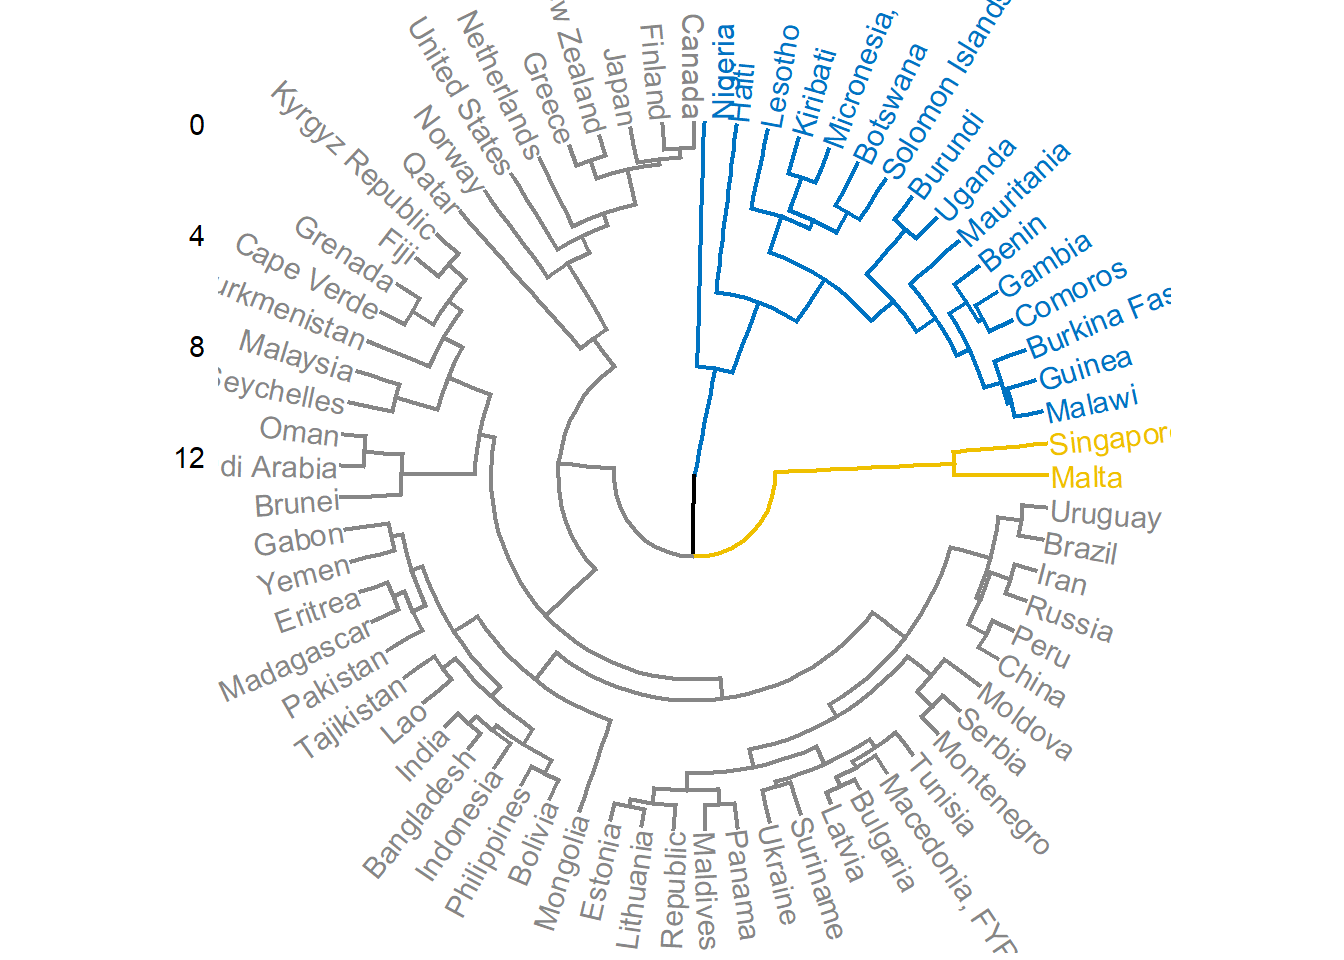
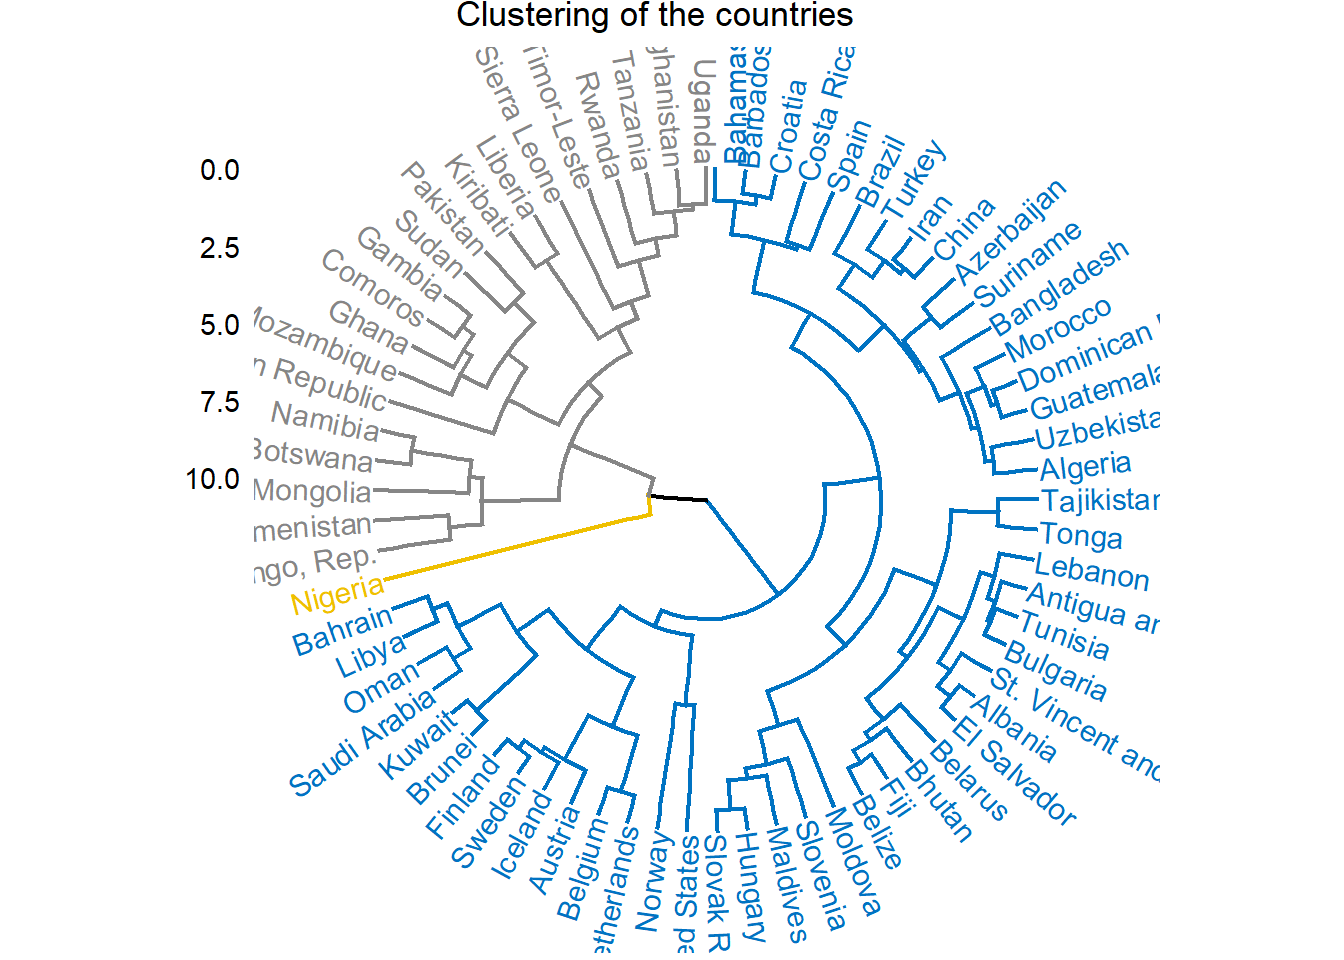
aa

diff --git a/index.html b/index.html
@@ -9,6 +9,7 @@
 <meta http-equiv="X-UA-Compatible" content="IE=EDGE" />
 
 
+<meta name="author" content="Kevin Luna Obando" />
 
 
 <title>PEC 2 - Visualización de datos</title>
@@ -264,6 +265,7 @@ $(document).ready(function () {
 
 
 <h1 class="title toc-ignore">PEC 2 - Visualización de datos</h1>
+<h4 class="author">Kevin Luna Obando</h4>
 
 </div>
 
@@ -272,7 +274,7 @@ $(document).ready(function () {
 usando técnicas diferentes, en nuestro han sido: dot-density-map,
 cicular-dendrogram y UpSet (intersecting sets).</p>
 <div id="dot-density-map" class="section level1">
-<h1>Dot density map</h1>
+<h1><strong>Dot density map</strong></h1>
 <p>Los mapas de densidad de puntos son una forma simple de mostrar las
 diferencias de densidad en las distribuciones geográficas en un
 territorio. Este tipo de visualizacion fue y es muy popular, debido a
@@ -282,33 +284,39 @@ uno-a-uno-dot-density-map o uno-a-muchos-dot-density-maps. Un factor
 crítico de este tipo de visualización es que han de ser dibujados en un
 mapa que preserve el tamaño de las área, sino se puede llegar a
 distorsionar la densidad percibida de los puntos.</p>
-<p>Las ventajas de usar este tipo de visualización son: - se puede
-mapear simples conteos/ratios (por ejemplo, número de coches/coches por
-km2) - los datos no necesitan tener vinculado unidades de enumeración -
-funcionan bien en blanco y negro (cuando solo tenemos una clase)</p>
+<p>Las ventajas de usar este tipo de visualización son:</p>
+<ul>
+<li><p>se puede mapear simples conteos/ratios (por ejemplo, número de
+coches/coches por km2)</p></li>
+<li><p>los datos no necesitan tener vinculado unidades de
+enumeración</p></li>
+<li><p>funcionan bien en blanco y negro (cuando solo tenemos una
+clase)</p></li>
+</ul>
 <p>Algunos ejemplos de conjuntos de datos que podríamos usar este tipo
-de visualizacion: - distribución de McDonalds en USA (1 punto = 1
-McDonald) - número de personas, por comarca, Cataluña, 2020 (1 punto
-10000 personas) - densidad de población por raza/etnia en New York (1
-punto 100 personas)</p>
+de visualizacion:</p>
+<ul>
+<li><p>distribución de McDonalds en USA (1 punto = 1 McDonald)</p></li>
+<li><p>número de personas, por comarca, Cataluña, 2020 (1 punto 10000
+personas)</p></li>
+<li><p>densidad de población por raza/etnia en New York (1 punto 100
+personas)</p></li>
+</ul>
 <p><img src="dotamapex.png" width="50%" style="display: block; margin: auto;" /></p>
-<div id="limitaciones" class="section level2">
-<h2>Limitaciones</h2>
-<p>Los principales inconvenientes de esta visualización son: - es
-dificil recuperar datos en concreto - las ubicaciones de los puntos son
-al azar en una determinada zona</p>
-</div>
-<div id="tipo-de-datos" class="section level2">
-<h2>Tipo de datos</h2>
+<p>Los principales inconvenientes de esta visualización son:</p>
+<ul>
+<li><p>es dificil recuperar datos en concreto</p></li>
+<li><p>las ubicaciones de los puntos son al azar en una determinada
+zona</p></li>
+</ul>
 <p>Los datos introducidos son cualitativos (por ejemplo, raza/etnia de
 una persona). Cada dato ha de estar vinculado a un dato geográfico, como
 la latitud y longitud.A parte, de los datos como tal es necesario tener
 un mapa como base para poder representar este tipo de datos.</p>
 <p>La cantidad de datos no es muy relevante, ya que se puede jugar con
 la agrupacion de mas de 1 dato en cada punto.</p>
-</div>
-<div id="implementacion" class="section level2">
-<h2>Implementacion</h2>
+<div id="implementacion" class="section level3">
+<h3>Implementacion</h3>
 <p>se ha realizado esta visualización en R. El dataset usado para
 representar el ejemplo es <em>Fast Food Restaurants in America</em> y lo
 podemos encontrar en: <a
@@ -324,7 +332,10 @@ librerias necesaria a RStudio. En este caso, hemos usado
 <em>tidyverse</em>, <em>sf</em> y <em>maps</em>.</p>
 <pre class="r"><code>library(tidyverse) # metapackage of all tidyverse packages
 library(sf)
-library(maps)</code></pre>
+library(maps)
+library(UpSetR)
+library(stats)
+library(factoextra)</code></pre>
 <p>A continuación, se ha importado los datos del dataset mensionado
 anteiormente, y los datos geográficos necesarios para representar los
 Estados Unidos.</p>
@@ -354,83 +365,85 @@ territorio.</p>
 </div>
 </div>
 <div id="circular-dendrogram" class="section level1">
-<h1>Circular dendrogram</h1>
+<h1><strong>Circular dendrogram</strong></h1>
 <p>Un dendograma es un diagrama que muestra la relación jerárquica entre
-objetos. El uso principal de los dendrogramas es encontrar lamejor
+objetos. El uso principal de los dendrogramas es encontrar la mejor
 manera de asignar objetos a los clústeres. Es decir, es una manera de
-visualizar el cluster asignida a cada datos.Los dendrogramas pueden
-ayudar a tomar la decisión de cuantos clústeres hay.</p>
-<p>La ventaja de usar este tipo de visualización son: - es facil de
-visualizar los clusteres a un mismo nivel - facil de recuperar datos</p>
+visualizar el cluster asignado a cada datos.Los dendrogramas pueden
+ayudar a tomar la decisión del número de clústeres.</p>
+<p>La ventaja de usar este tipo de visualización son:</p>
+<ul>
+<li><p>es facil de visualizar los clusteres a un mismo nivel</p></li>
+<li><p>facil de recuperar datos</p></li>
+</ul>
 <p>Por otro lado, los datos han de ser previamente procesados para
 realizar correctamente el cálculo de las distancias. Además, una gran
 cantidad de datos resultaría en una visualización imposible de leer, por
 lo que este tipo de visualización está pensado para datasets
 pequeños.</p>
 <p>Algunos ejemplos de conjuntos de datos que podríamos usar este tipo
-de visualizacion: - clustering de pasises con datos socio-económicos -
-número de personas, por comarca, Cataluña, 2020 (1 punto 10000 personas)
-- densidad de población por raza/etnia en New York (1 punto 100
-personas)</p>
+de visualizacion:</p>
+<ul>
+<li><p>clustering de pasises con datos socio-económicos</p></li>
+<li><p>clustering de ciudades por ratio de criminalidad</p></li>
+<li><p>clustering de especie de flores por características de la
+flor</p></li>
+</ul>
+<div id="implementacion-1" class="section level3">
+<h3>Implementacion</h3>
 <p>Los datos usado para representar esta visualización es “Humanitarian
 Aid to Underdeveloped Countries” de Kaggle, el link es: <a
-href="https://www.kaggle.com/code/shrutidandagi/clustering-of-the-countries-help-international/data"
-class="uri">https://www.kaggle.com/code/shrutidandagi/clustering-of-the-countries-help-international/data</a>.</p>
-<pre class="r"><code>set.seed(200)
+href="https://www.kaggle.com/datasets/hellbuoy/pca-kmeans-hierarchical-clustering"
+class="uri">https://www.kaggle.com/datasets/hellbuoy/pca-kmeans-hierarchical-clustering</a></p>
+<p>Se ha realizado un clusterizado usando los datos socio-económicos y
+health factors que describen el desarrollo de un país.</p>
+<pre class="r"><code>set.seed(777)
 dataDend &lt;- read.csv(&quot;Country-data.csv&quot;)[sample(1:167, 70), ] 
 dataScale &lt;- dataDend[,2:10]</code></pre>
 <pre class="r"><code>dataScale &lt;- as.data.frame(scale(dataScale))  # Apply scale function
-rownames(dataScale) &lt;- dataDend$country
-head(dataScale)  </code></pre>
-<pre><code>##                child_mort    exports      health    imports     income
-## Yemen           0.4319299 -0.3989661 -0.47513268 -0.5016458 -0.5919272
-## Nigeria         2.2626285 -0.5495781 -0.51043978 -1.0801499 -0.5612256
-## Czech Republic -0.8820994  0.7546576  0.39149612  0.4681995  0.4995816
-## Burkina Faso    1.9148703 -0.7450532  0.02558618 -0.6649881 -0.7316880
-## Guinea          1.7409912 -0.3893526 -0.55537609 -0.2021848 -0.7426856
-## Kiribati        0.5909051 -0.9341193  1.48922593  1.0467036 -0.7179410
-##                 inflation life_expec  total_fer       gdpp
-## Yemen           1.1126158 -0.2621121  1.2745412 -0.6013265
-## Nigeria         7.0733074 -1.0293458  2.1081534 -0.5445361
-## Czech Republic -0.7430572  0.8339360 -0.9769243  0.4281395
-## Burkina Faso   -0.1321604 -1.3143183  2.1295281 -0.6422490
-## Guinea          0.5565812 -1.3033578  1.7519089 -0.6381846
-## Kiribati       -0.5243502 -1.0074248  0.6831752 -0.5913047</code></pre>
-<pre class="r"><code>library(stats)
-res.dist &lt;- dist(x=dataScale, method=&quot;euclidean&quot;)
+rownames(dataScale) &lt;- dataDend$country</code></pre>
+<pre class="r"><code>res.dist &lt;- dist(x=dataScale, method=&quot;euclidean&quot;)
 res.hc &lt;- hclust(d =res.dist, method=&quot;complete&quot; )</code></pre>
-<pre class="r"><code>library(factoextra)</code></pre>
-<pre><code>## Welcome! Want to learn more? See two factoextra-related books at https://goo.gl/ve3WBa</code></pre>
 <pre class="r"><code>fviz_dend(x=res.hc, cex=0.8, lwd=0.8, k=3, 
           k_colors=&quot;jco&quot;,
-          type = &quot;circular&quot;)</code></pre>
+          type = &quot;circular&quot;) + 
+  ggtitle(&quot;Clustering of the countries&quot;) + theme(plot.title = element_text(hjust = 0.4)) </code></pre>
 <pre><code>## Warning: `guides(&lt;scale&gt; = FALSE)` is deprecated. Please use `guides(&lt;scale&gt; =
 ## &quot;none&quot;)` instead.</code></pre>
-<p><img src="index_files/figure-html/unnamed-chunk-8-1.png" width="672" /></p>
+<p><img src="index_files/figure-html/unnamed-chunk-8-1.png" width="672" style="display: block; margin: auto;" /></p>
+<p>El dendrograma obtenido podemos observar 3 clústeres diferentes
+(gris, amarillo y azul). Con este dendrograma podemos ver con facilida
+grupo de paises con carecterísticas socio-económicas parecidas como, por
+ejemplo, Finlandia y Canada.</p>
+</div>
 </div>
 <div id="upset-plot" class="section level1">
-<h1>UpSet Plot</h1>
-<p>Alternativa de un Venn Diagram, cuando hay varios sets.</p>
-<pre class="r"><code>#if (!require(&quot;UpSetR&quot;)) install.packages(&quot;UpSetR&quot;)
-library(UpSetR)</code></pre>
+<h1><strong>UpSet Plot</strong></h1>
+<p>Entender la realción entre variso sets es muy importantes a la hora
+de analizar un dataset. El UpSet, es una nueva técnica de visualización
+para el análisis cuantitivo de sets, sus intersecciones y agregaciones
+de sets.Es una alternativa de los Venn Diagram.</p>
+<p>Con este tipo de visualización se puede comprender las relaciones
+entre múltiples sets de una manera sencilla.</p>
+<p>Con respecto a los datos, se han de procesar previamente para poder
+realizar la visualización. Los datos han de estar en formato de lista de
+sets. Son datos cuantitativos, además hay un límite de cuantos sets
+distintos se puede añadir, alrededor de 30 sería el límite de la
+visualización.</p>
+<div id="implementacion-2" class="section level3">
+<h3>Implementacion</h3>
+<p>Los datos usado para representar esta visualización es “Personal Key
+Indicators of Heart Disease” de Kaggle, el link es: <a
+href="https://www.kaggle.com/datasets/kamilpytlak/personal-key-indicators-of-heart-disease?select=heart_2020_cleaned.csv"
+class="uri">https://www.kaggle.com/datasets/kamilpytlak/personal-key-indicators-of-heart-disease?select=heart_2020_cleaned.csv</a></p>
+<p>Este dataset nos proporciona enfermedades (Stroke, Ashtma …) y
+habitos (Smoking …) de un paciente. La idea de usar UpSet con este
+dataset es visualizar las relaciones que existen este estas
+características.</p>
 <pre class="r"><code>heartData &lt;- read.csv(&quot;heart_2020_cleaned.csv&quot;)[,c(1,3,4,5,8,13,16,17,18)]
 heartData &lt;- heartData[sample(1:300000, 5000), ]
 personas &lt;- paste(&quot;persona&quot;,1:5000,sep=&quot;&quot;)
-rownames(heartData) &lt;- personas
-
-head(heartData,5)</code></pre>
-<pre><code>##          HeartDisease Smoking AlcoholDrinking Stroke DiffWalking
-## persona1           No      No              No     No          No
-## persona2           No      No              No     No          No
-## persona3           No      No              No     No          No
-## persona4          Yes     Yes              No     No          No
-## persona5           No      No              No     No          No
-##          PhysicalActivity Asthma KidneyDisease SkinCancer
-## persona1              Yes     No            No         No
-## persona2              Yes     No            No         No
-## persona3              Yes     No            No         No
-## persona4              Yes     No            No         No
-## persona5               No    Yes            No         No</code></pre>
+rownames(heartData) &lt;- personas</code></pre>
 <pre class="r"><code>set.seed(200)
 genes &lt;- paste(&quot;gene&quot;,1:1000,sep=&quot;&quot;)
 x &lt;- list(
@@ -445,7 +458,14 @@ x &lt;- list(
   SkinCancer = rownames(heartData[heartData$SkinCancer == &#39;Yes&#39;,])
   )</code></pre>
 <pre class="r"><code>upset(fromList(x), order.by = &quot;freq&quot;)</code></pre>
-<p><img src="index_files/figure-html/unnamed-chunk-12-1.png" width="672" /></p>
+<p><img src="index_files/figure-html/unnamed-chunk-11-1.png" width="672" style="display: block; margin: auto;" /></p>
+<p>Esta visualización nos proprociona información como:</p>
+<ul>
+<li><p>1841 personas hacen acividad física</p></li>
+<li><p>1051 personas que hacen deporte también fuman</p></li>
+<li><p>136 personas fuman y tienen difucultades al caminar</p></li>
+</ul>
+</div>
 </div>
 
 
